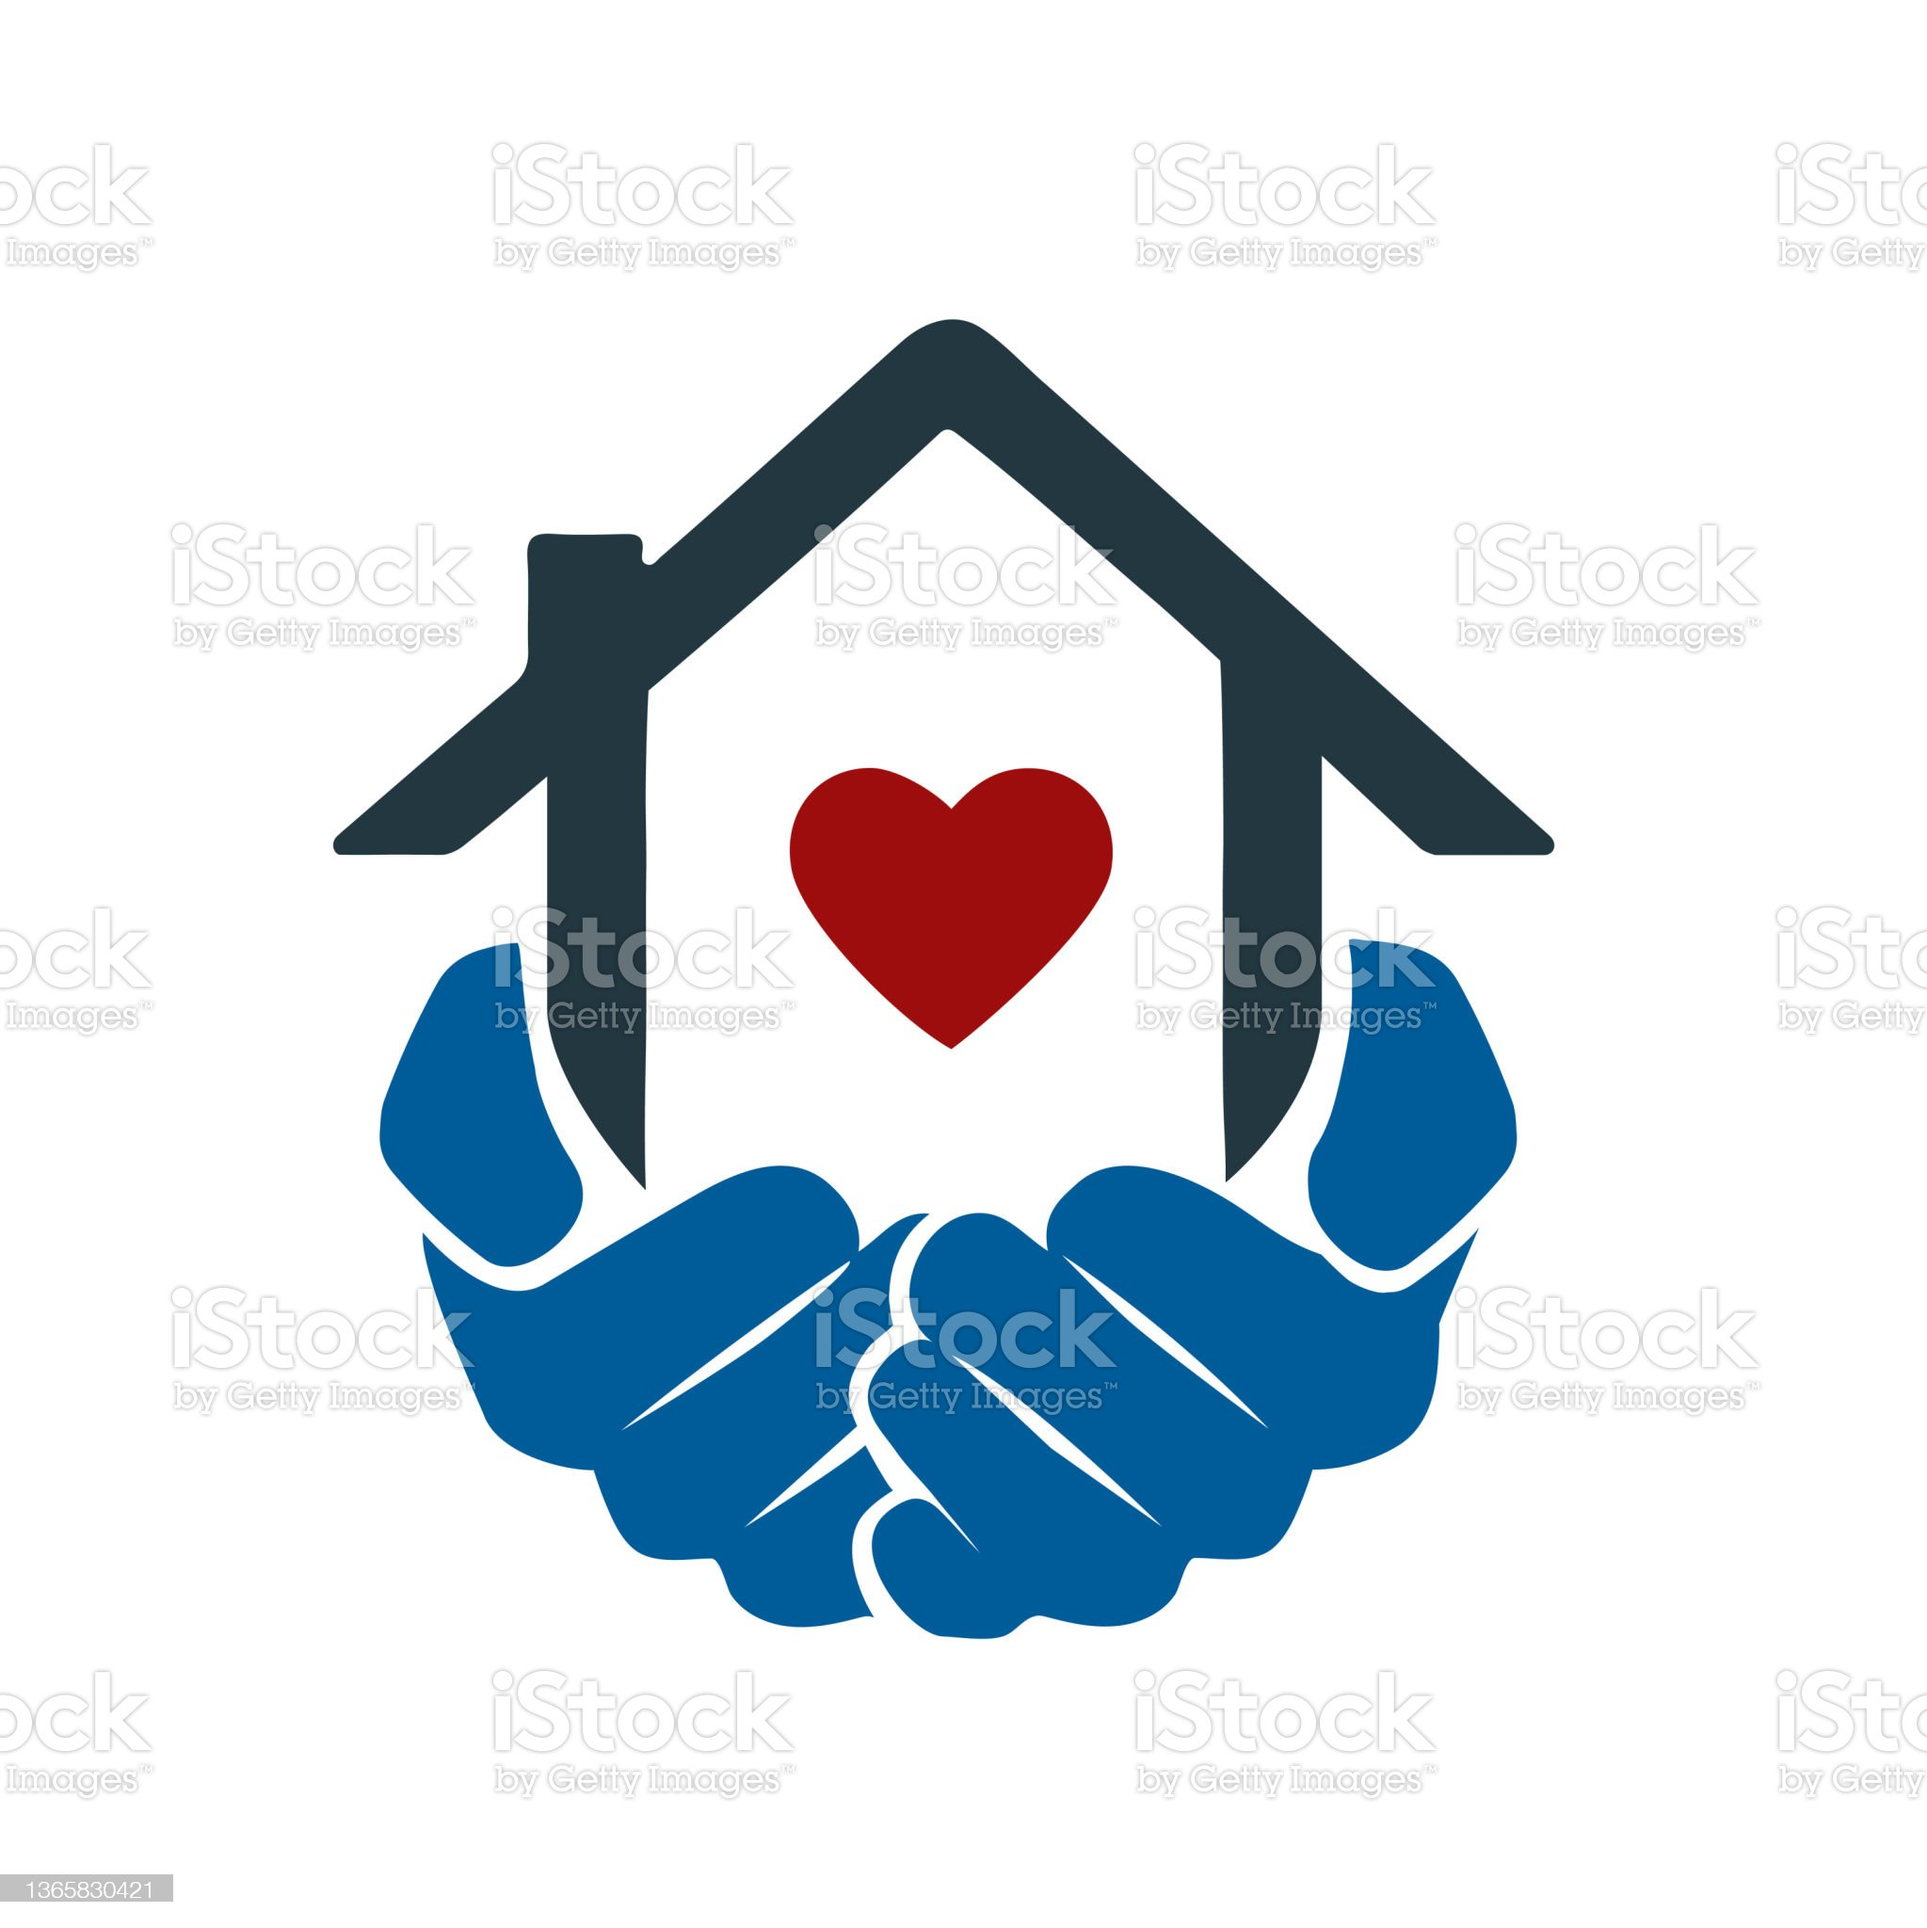
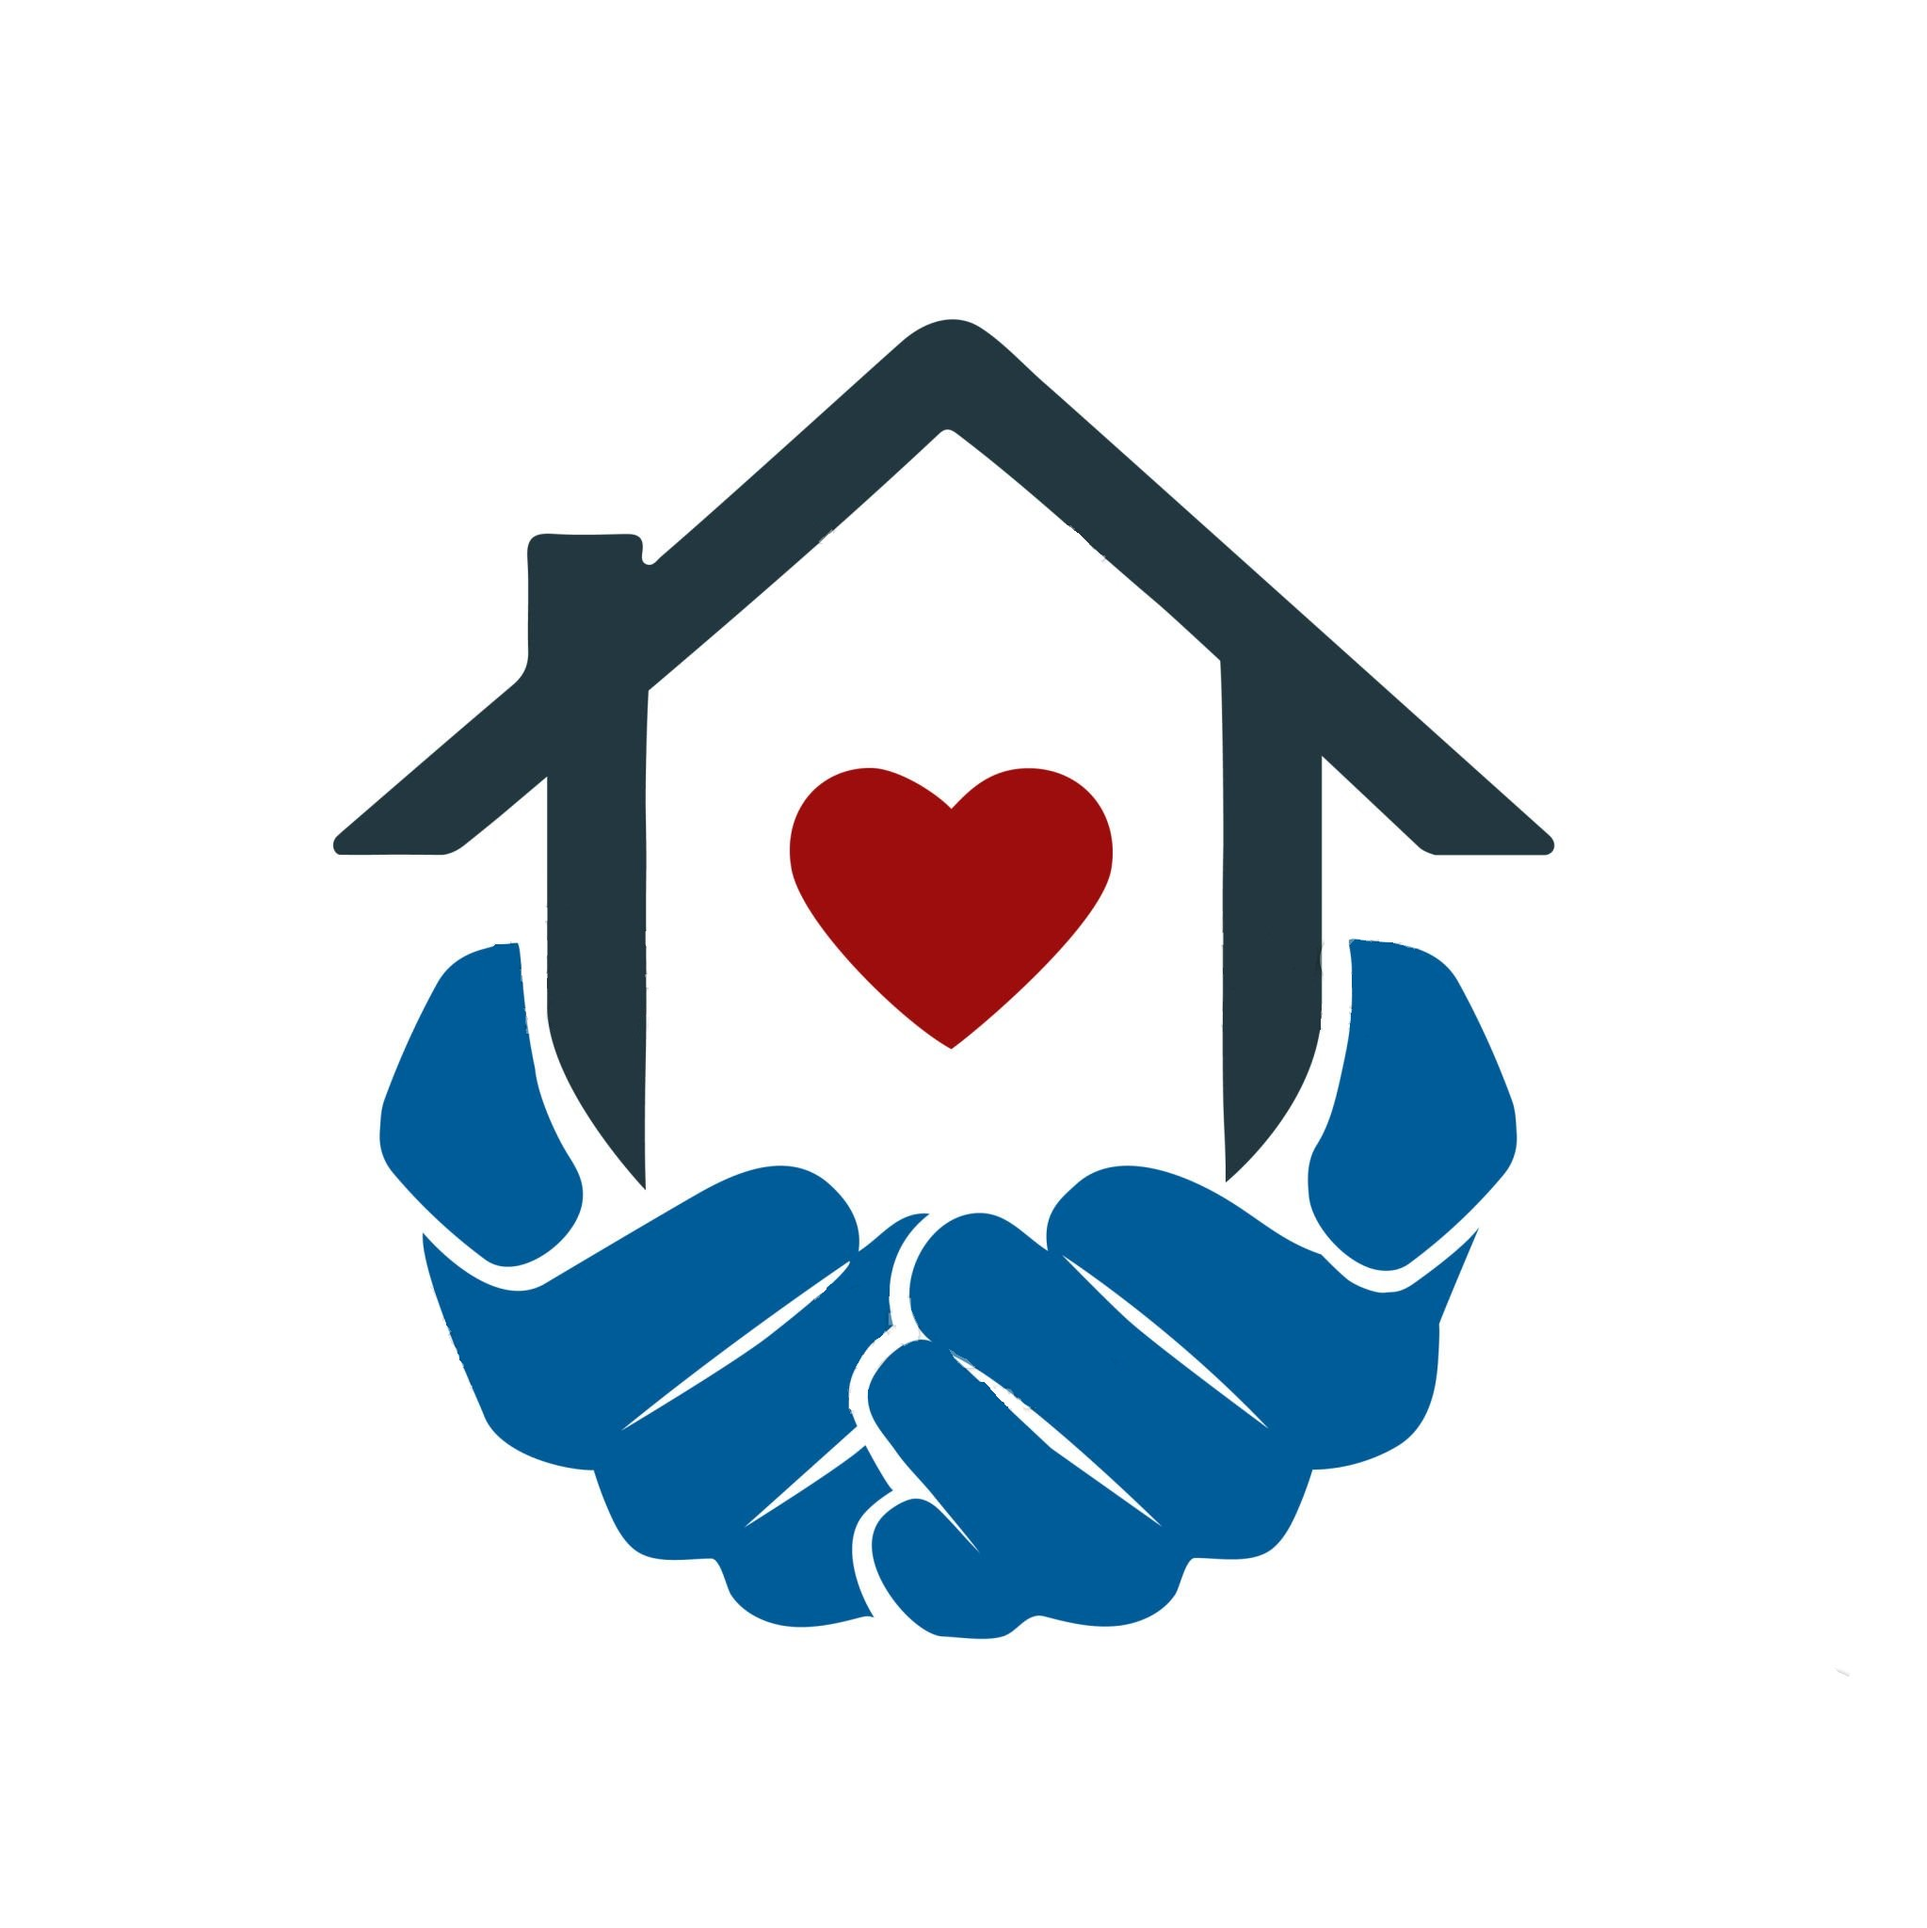
image changes

diff --git a/index.html b/index.html
@@ -29,6 +29,8 @@
         <link href="css/owl.theme.default.min.css" rel="stylesheet">
 
         <link href="css/templatemo-medic-care.css" rel="stylesheet">
+        
+        <link rel="stylesheet" href="css/custom.css">
 <!--
 
 TemplateMo 566 Medic Care
@@ -49,7 +51,6 @@ https://templatemo.com/tm-566-medic-care
     <body id="top">
     
         <main>
-
             <nav class="navbar navbar-expand-lg bg-light fixed-top shadow-lg">
                 <div class="container">
                     <!-- <a class="navbar-brand mx-auto d-lg-none" href="index.html">
@@ -98,7 +99,7 @@ https://templatemo.com/tm-566-medic-care
 
                 </div>
             </nav>
-
+            <div class="bg"></div>
             <section class="hero" id="hero">
                 <div class="container">
                     <div class="row">
@@ -107,15 +108,7 @@ https://templatemo.com/tm-566-medic-care
                             <div id="myCarousel" class="carousel slide carousel-fade" data-bs-ride="carousel">
                                 <div class="carousel-inner">
                                     <div class="carousel-item active">
-                                        <img src="images/slider/portrait-successful-mid-adult-doctor-with-crossed-arms.jpg" class="img-fluid" alt="">
-                                    </div>
-
-                                    <div class="carousel-item">
-                                        <img src="images/slider/young-asian-female-dentist-white-coat-posing-clinic-equipment.jpg" class="img-fluid" alt="">
-                                    </div>
-
-                                    <div class="carousel-item">
-                                        <img src="images/slider/doctor-s-hand-holding-stethoscope-closeup.jpg" class="img-fluid" alt="">
+                                        <img src="images/hand-holding-house.png" class="img-fluid" style="object-fit: cover;height: 650px;width:auto;" alt="">
                                     </div>
                                 </div>
                             </div>
@@ -145,7 +138,6 @@ https://templatemo.com/tm-566-medic-care
                     </div>
                 </div>
             </section>
-
             <section class="section-padding" id="about">
                 <div class="container">
                     <div class="row">
@@ -215,7 +207,7 @@ https://templatemo.com/tm-566-medic-care
 
                         <div class="col-lg-4 col-md-5 col-12 mx-auto">
                             <div class=" bg-white shadow-lg d-flex justify-content-center align-items-center">
-                                <p class="featured-text"><span class="featured-number">Our Mission Statement: </span> <br></p>
+                                <p class="featured-text" style="padding:20px;"><span class="featured-number">Our Mission Statement: </span> <br></p>
                             </div>
                         </div>
 
@@ -509,10 +501,12 @@ https://templatemo.com/tm-566-medic-care
                                 <span>8:00 AM - 10:30 PM</span>
                             </li>
                             <li class="list-group-item d-flex">
-                                Saturday : Closed
+                                Saturday
+                                <span>Closed</span>
                             </li>
                             <li class="list-group-item d-flex">
-                                Sunday : Closed
+                                Sunday
+                                <span>Closed</span>
                             </li>
 
 
@@ -527,7 +521,7 @@ https://templatemo.com/tm-566-medic-care
                     <div class="col-lg-2 col-md-6 col-12 my-4 my-lg-0">
                         <h5 class="mb-lg-4 mb-3">Contact</h5>
 
-                        <p><a href="mailto:millerspersonalcarehomes@my.yahoo.com">Email Us</a><p>
+                        <p><a href="mailto:millerspersonalcarehomes@my.yahoo.com">Email: millerspersonalcarehomes@&#8203;my.yahoo.com</a><p>
 
                         <p>8106 Ocean Meadow Drive, Converse, TX, 78109</p>
                     </div>

diff --git a/css/custom.css b/css/custom.css
@@ -1,0 +1,19 @@
+main {
+    position: relative;
+    z-index: 1;
+}
+
+.bg {
+    position: absolute;
+    z-index: -1;
+    top: 0;
+    bottom: 0;
+    left: 0;
+    right: 0;
+    background-image: url(../images/iStock-952827294.jpg);
+    background-size: cover;
+    background-repeat: no-repeat;
+    width: 100%;
+    height: 100%;
+    opacity: 0.3;
+}
